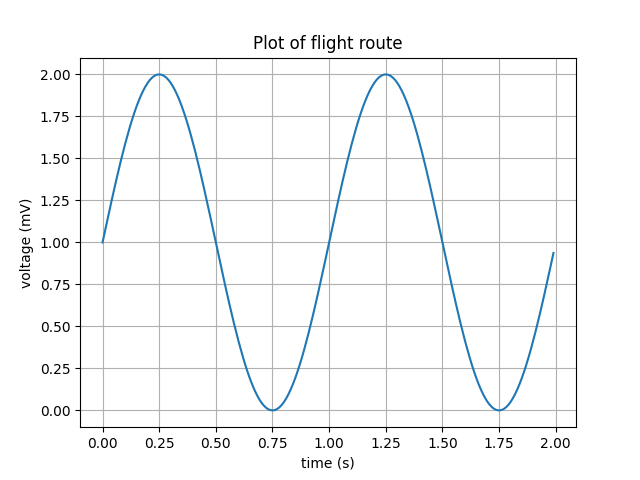
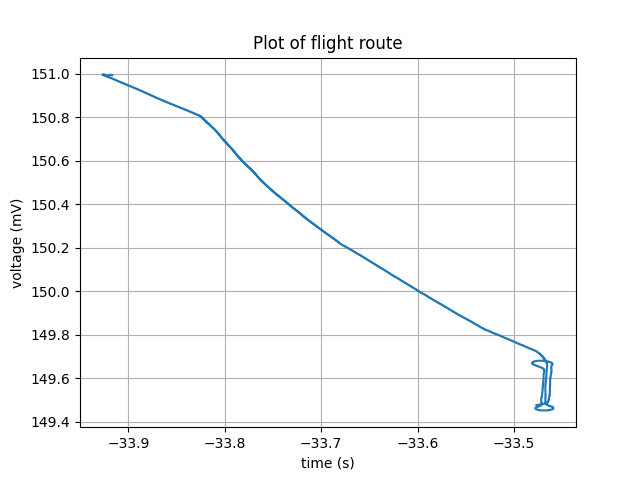
convert to array; passed long and latitude to plot

diff --git a/gnss-plots.py b/gnss-plots.py
@@ -130,7 +130,8 @@ def test_parse_all_raw_data(test_input=None, expected_test_input=None, delims=No
 def parse(line: str, delims: tuple) -> list:
 
     extract =[]
-    process=[]
+    process_latitude=[]
+    process_longitude=[]
     # Replace and split is faster than regex split method.
     for delim in delims:
         if delim == delims[0]:
@@ -158,9 +159,9 @@ def parse(line: str, delims: tuple) -> list:
         latitude_conversion = float(latitude_mm) / 60
         latitude_converted = float(latitude_dd) + latitude_conversion
         if latitude_dir == 'S':
-            process.append(-abs(latitude_converted))
+            process_latitude.append(-abs(latitude_converted))
         else:
-            process.append(latitude_converted)
+            process_latitude.append(latitude_converted)
         
         # convert longitude from NMEA format to position format
         longitude_dir = extract[GNSS_GPGGA_LOG_FIELD__LONGITUDE_DIRECTION_IDX -
@@ -173,14 +174,14 @@ def parse(line: str, delims: tuple) -> list:
         longitude_conversion = float(longitude_mm) / 60
         longitude_converted = float(longitude_dd) + longitude_conversion        
         if longitude_dir == 'W':
-            process.append(-abs(longitude_converted))
+            process_longitude.append(-abs(longitude_converted))
         else:
-            process.append(longitude_converted)
+            process_longitude.append(longitude_converted)
         # print("each extracted Long Lati data in GPGGA logs:")
         # print(extract)
-        return process
+        return GNSS__TRUE, process_latitude, process_longitude
     else:
-        return GNSS__FALSE
+        return GNSS__FALSE, process_latitude, process_longitude
     
 # """
 # Parse everything in a GPS log file. return a list of lists where each "sub-list"
@@ -195,8 +196,11 @@ def parse(line: str, delims: tuple) -> list:
 #     List of lists where each "sub-list" represents a parsed line in the log file.
 # """
 def parse_all(log_file=None, delims=None, section_keys=None):
-    ret = []
-
+    ret_longitude_list = []
+    ret_latitude_list = []
+    ret_longitude = []
+    ret_latitude = []
+    error = []
     # try local file availability
     try:
         open(log_file, 'r')
@@ -211,35 +215,43 @@ def parse_all(log_file=None, delims=None, section_keys=None):
         if section_keys is None:
             # No separate sections.
             for line in file:
-                ret_list = parse(line, delims)
-                if (ret_list == GNSS__FALSE):
+                error, ret_latitude, ret_longitude = parse(
+                    line, delims)
+                if (error == GNSS__FALSE):
                     print("Not a GPGGA")
                 else:
-                    ret.append(ret_list)                
+                    ret_latitude_list.append(ret_latitude)
+                    ret_longitude_list.append(ret_longitude)
             print("extracted list of Long Lati data in GPGGA logs:")
-            print(ret)
-    return ret
+            print(ret_latitude_list)
+            print(ret_longitude_list)
+    return ret_latitude_list, ret_longitude_list
 
 
 # """
 # plot 2-D data
 # Args:
-#     lattitude: x-axis values 
+#     latitude: x-axis values 
 #     longitude: y-axis values
 # Returns:
 #     GNSS__TRUE - Success
 #     GNSS__FALSE - Failure
 # """
-def data_plot(lattitude=None, longitude=None):
+def data_plot(latitude=None, longitude=None):
     # np.array(ret)
 
     # generating dummy Data for plotting
     t = np.arange(0.0, 2.0, 0.01)
     s = 1 + np.sin(2 * np.pi * t)
+    print(latitude)
+    print(longitude)
+    # lat = np.array(latitude)
+    # long = np.array(longitude)
 
     # plotting
     fig, ax = plt.subplots()
-    ax.plot(t, s)
+    # ax.plot(t, s)
+    ax.plot(latitude, longitude)
 
     ax.set(xlabel='time (s)', ylabel='voltage (mV)',
            title='Plot of flight route')
@@ -345,6 +357,11 @@ if __name__ == '__main__':
         quit()
     else:
         print("unit test passed, proceed to main tool feature.")
-        results.append(parse_all(data_file, DEFAULT_DELIMS))
-        data_plot()
+        [latitude_list, longitude_list] = parse_all(data_file, DEFAULT_DELIMS)
+        flat_latitude_list = sum(latitude_list, [])
+        flat_longitude_list = sum(longitude_list, [])
+        
+        lat_array = np.array(flat_latitude_list)
+        long_array = np.array(flat_longitude_list)
+        data_plot(lat_array, long_array)
 #turn py to exe pyinstaller
